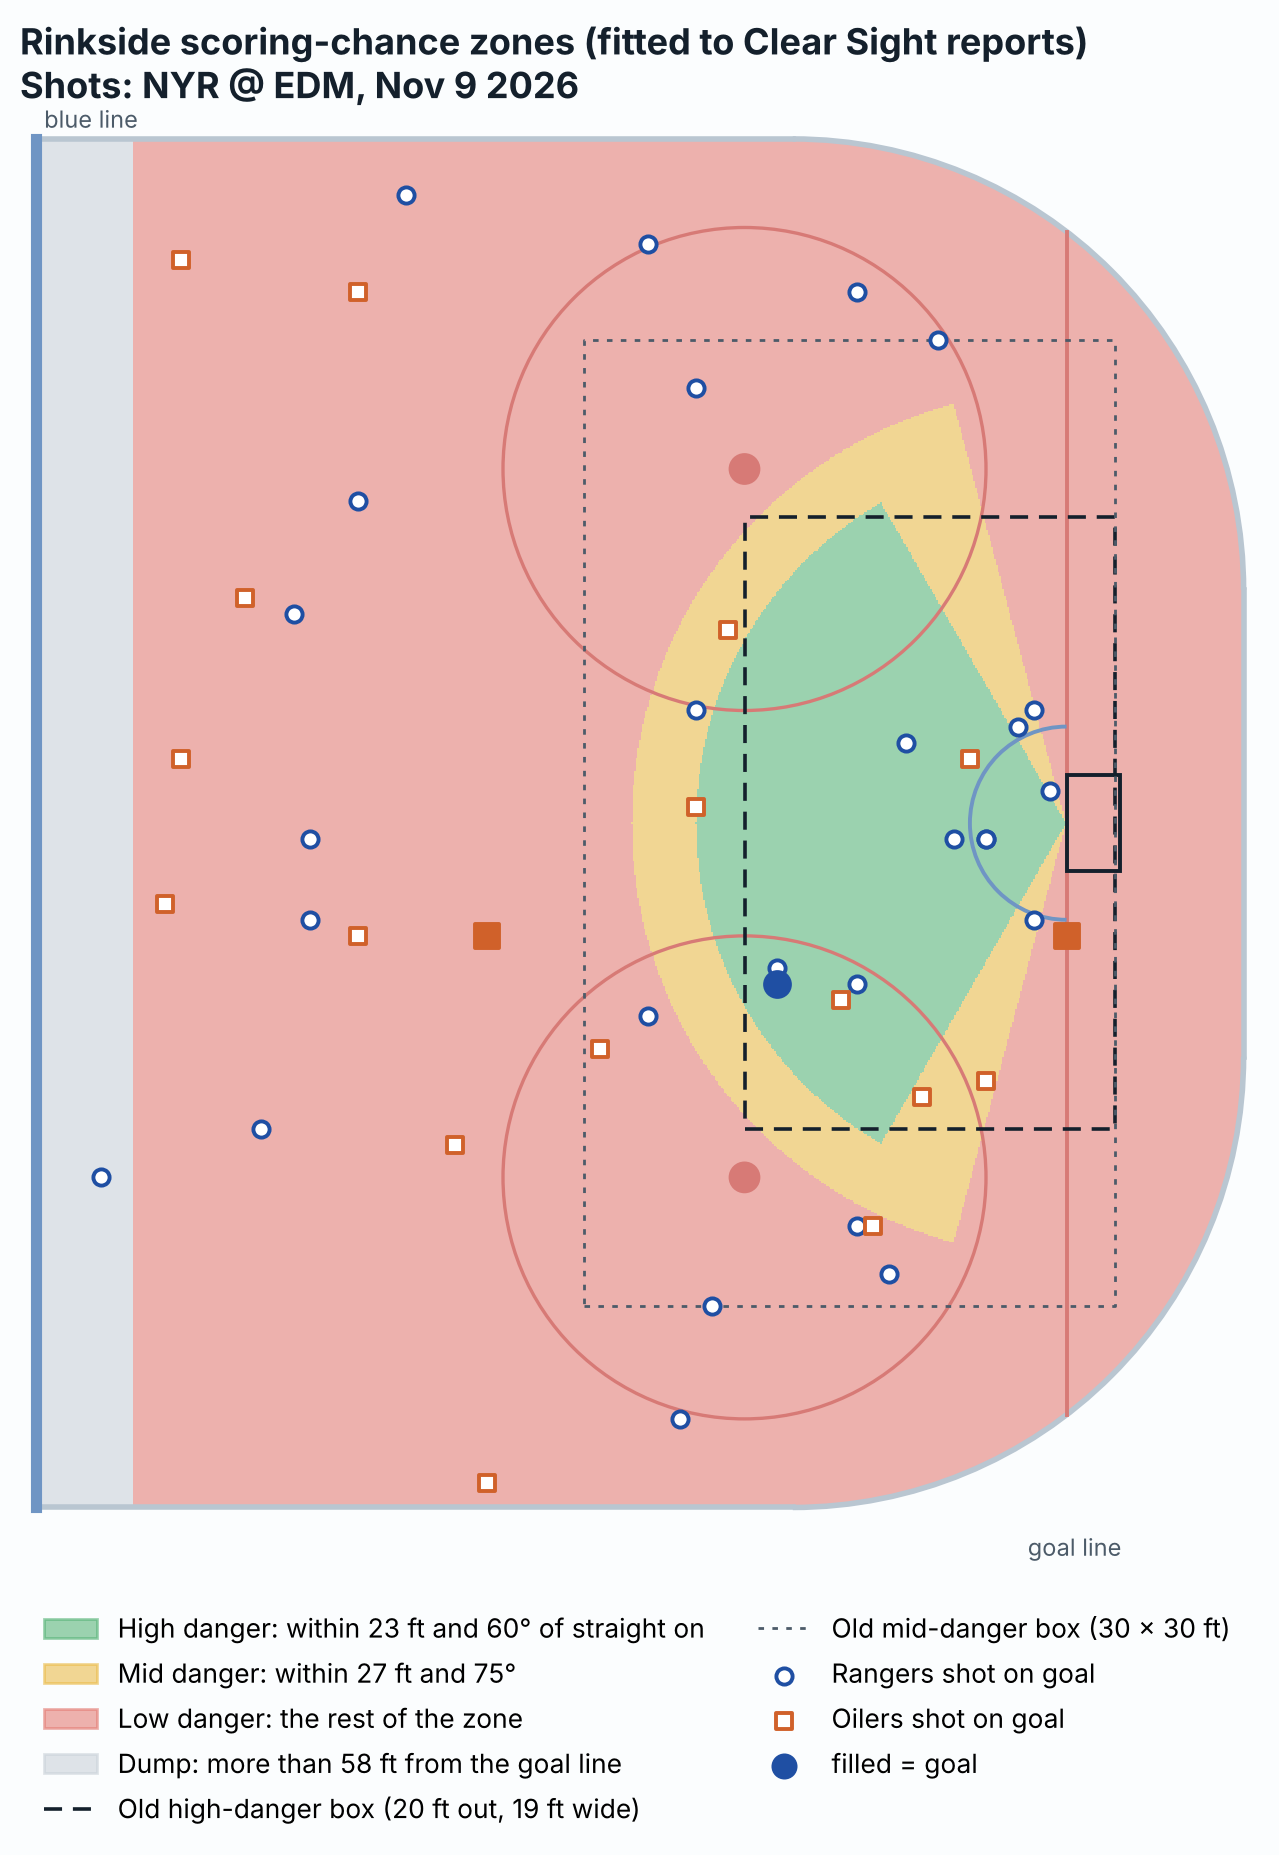
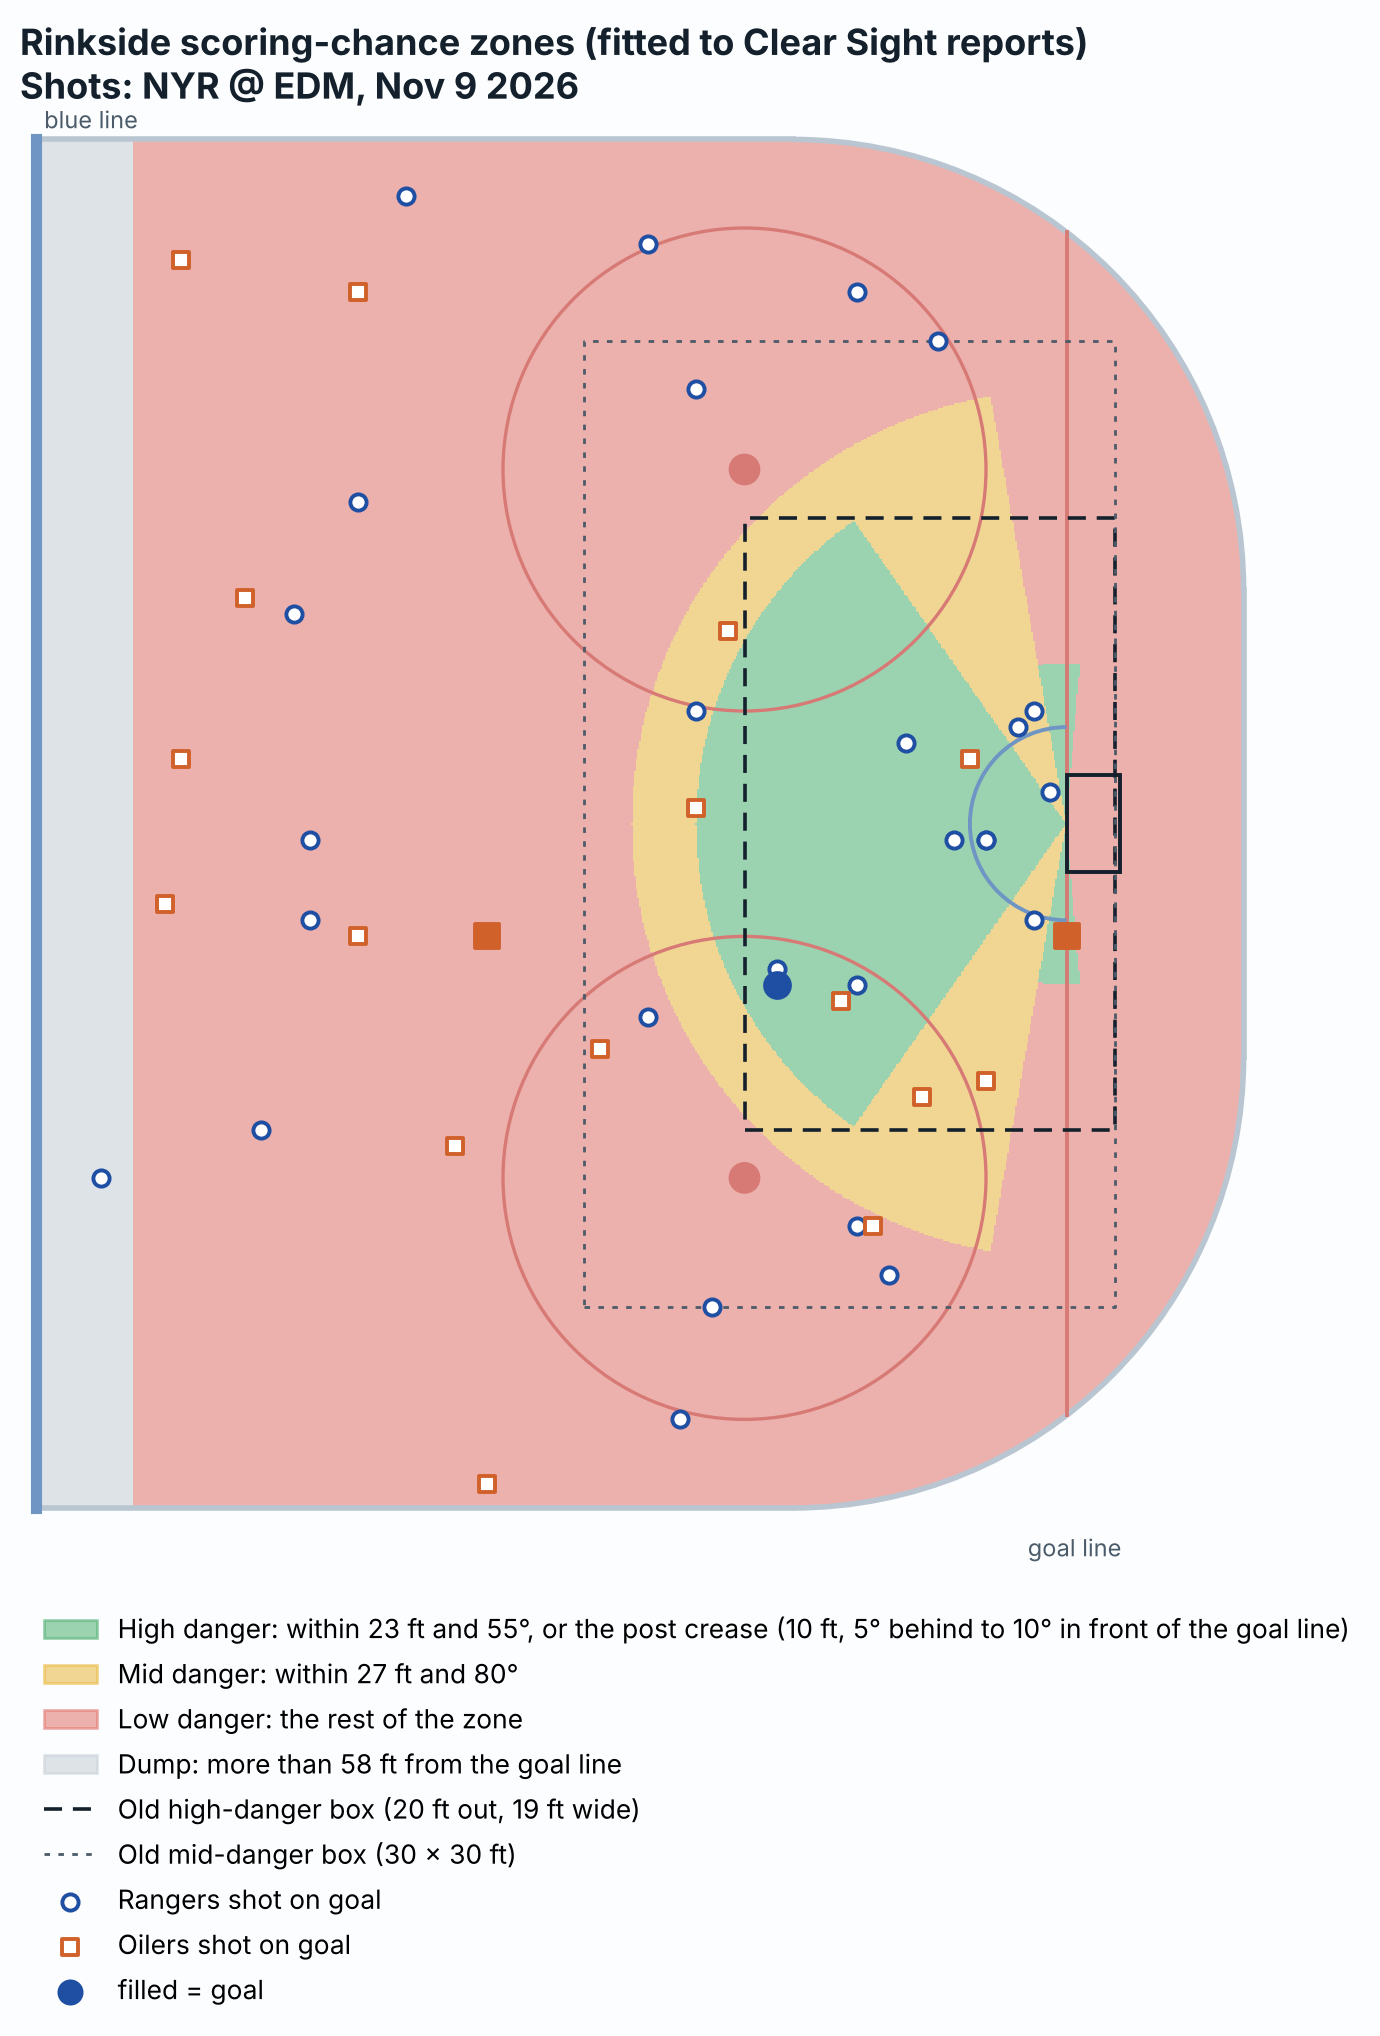
Rinkside: post/goal-line crease in the high-danger zone
High danger now also covers shots within 10 ft of the net from 5 deg behind
the goal line to 10 deg in front (wraparounds, jam plays at the post), the
band fitted from 80-95 deg candidates. Cone refit to 23 ft / 55 deg, mid
27 ft / 80 deg. Held-out game error 19 (was 24 without the crease; old box
23); total error on the reports unchanged at 7. McDavid's post goal on
Nov 9 is now high danger, as in the Clear Sight report.

Also fixes a stack overflow in the fit script with many tied settings.

Claude-Session: https://claude.ai/code/session_01GDxetayV1z4f2CKVH8UtU4

diff --git a/rinkside/scripts/draw_chance_zones.py b/rinkside/scripts/draw_chance_zones.py
@@ -2,13 +2,13 @@ import json, math, numpy as np, matplotlib
 matplotlib.use('Agg'); import matplotlib.pyplot as plt
 from matplotlib.patches import Arc, Circle, Rectangle, FancyBboxPatch
 from matplotlib.colors import ListedColormap
-Z = dict(dump=58, hiDist=23, hiAng=60, midDist=27, midAng=75)
+Z = dict(dump=58, hiDist=23, hiAng=55, midDist=27, midAng=80, crease=10, creaseLo=80, creaseHi=95)
 INK, SEC, SURF, LINE = '#14202c', '#4c5b69', '#fbfdfe', '#b9c6d1'
 HI, MID, LOW, DUMP = '#4caf6e', '#e9b73c', '#e2736b', '#c7cfd6'
 def cls(x, y):
     fx = 89 - x; ay = abs(y); d = math.hypot(fx, ay); ang = math.degrees(math.atan2(ay, fx)) if fx > 0 else 90 + math.degrees(math.atan2(-fx, ay + 1e-9))
     if fx > Z['dump']: return 3
-    return 0 if (d <= Z['hiDist'] and ang <= Z['hiAng']) else 1 if (d <= Z['midDist'] and ang <= Z['midAng']) else 2
+    return 0 if ((d <= Z['hiDist'] and ang <= Z['hiAng']) or (d <= Z['crease'] and Z['creaseLo'] <= ang <= Z['creaseHi'])) else 1 if (d <= Z['midDist'] and ang <= Z['midAng']) else 2
 xs = np.linspace(25, 100, 751); ys = np.linspace(-42.5, 42.5, 851)
 G = np.array([[cls(x, y) for x in xs] for y in ys], float)
 # outside the rounded boards -> blank
@@ -38,13 +38,13 @@ for team, mk, col, lab in ((3, 'o', '#1f4fa3', 'Rangers'), (22, 's', '#d0612a', 
 ax.scatter([], [], marker='o', s=70, facecolor='#1f4fa3', edgecolor='#1f4fa3', label='filled = goal')
 from matplotlib.patches import Patch
 from matplotlib.lines import Line2D
-handles = [Patch(color=HI, alpha=.55, label=f'High danger: within {Z["hiDist"]} ft and {Z["hiAng"]}° of straight on'),
+handles = [Patch(color=HI, alpha=.55, label=f'High danger: within {Z["hiDist"]} ft and {Z["hiAng"]}°, or the post crease ({Z["crease"]} ft, 5° behind to 10° in front of the goal line)'),
            Patch(color=MID, alpha=.55, label=f'Mid danger: within {Z["midDist"]} ft and {Z["midAng"]}°'),
            Patch(color=LOW, alpha=.55, label='Low danger: the rest of the zone'),
            Patch(color=DUMP, alpha=.55, label=f'Dump: more than {Z["dump"]} ft from the goal line'),
            Line2D([], [], color=INK, ls=(0, (5, 3)), lw=1.3, label='Old high-danger box (20 ft out, 19 ft wide)'),
            Line2D([], [], color=SEC, ls=(0, (2, 3)), lw=1, label='Old mid-danger box (30 × 30 ft)')] + ax.get_legend_handles_labels()[0]
-ax.legend(handles=handles, loc='upper left', bbox_to_anchor=(0, -0.04), ncol=2, frameon=False, fontsize=9.5)
+ax.legend(handles=handles, loc='upper left', bbox_to_anchor=(0, -0.04), ncol=1, frameon=False, fontsize=9.5)
 ax.set_xlim(24, 101); ax.set_ylim(-44, 44); ax.set_aspect('equal'); ax.axis('off')
 ax.text(89.5, -45.5, 'goal line', fontsize=8.5, color=SEC, ha='center'); ax.text(25.5, 43.2, 'blue line', fontsize=8.5, color=SEC)
 ax.set_title('Rinkside scoring-chance zones (fitted to Clear Sight reports)\nShots: NYR @ EDM, Nov 9 2026', loc='left', fontsize=13, fontweight='bold', color=INK)

diff --git a/rinkside/README.md b/rinkside/README.md
@@ -187,18 +187,20 @@ also between GitHub Action runs, so each build only downloads new games):
   team's last attempt), rush (within 4 s of play at the other end) and power play /
   shorthanded. Across the league, xG adds up to actual goals.
 - **Scoring chances:** shots on goal from the offensive zone with the goalie in net.
-  - **High danger:** within 23 ft of the net and within 60° of straight on.
-  - **Mid danger:** within 27 ft and 75°.
+  - **High danger:** within 23 ft of the net and within 55° of straight on. Also the
+    **post crease**: within 10 ft of the net along the goal line, from 5° behind it to 10° in
+    front (wraparounds and jam plays at the post).
+  - **Mid danger:** within 27 ft and 80°.
   - **Low danger:** the rest of the zone.
   - **Dumps:** shots from more than 58 ft out, or from outside the zone.
 
   The zones are fitted to published scoring-chance reports (Clear Sight Analytics), listed in
   `calibration/chance-reports.json`, by `scripts/fit-chance-zones.mjs`. The script grid-searches
-  distance/angle cones (plus an optional crease radius) to match their chance, danger and goal
-  counts, picks the middle of the tied best settings, and checks itself by refitting with each
-  game left out. With 3 team-games so far, the fit is 7 counts off in total against 23 for the
-  earlier box (20 ft out by 19 ft wide). On a held-out game the two rules are about even
-  (24 vs 23), so the zones are a stopgap until more reports are in.
+  distance/angle cones plus a post crease to match their chance, danger and goal counts. It picks
+  the middle of the tied best settings and checks itself by refitting with each game left out.
+  With 3 team-games so far, the fit is 7 counts off in total, against 23 for the earlier box
+  (20 ft out by 19 ft wide). On a held-out game it is 19 off, against the box's 23 (the post
+  crease is what tipped that). Treat it as close-ish until more reports are in.
 
   **Adding reports is automatic:**
   1. Drop the report graphic (PNG or JPG) into `calibration/inbox/`, by uploading it on GitHub
